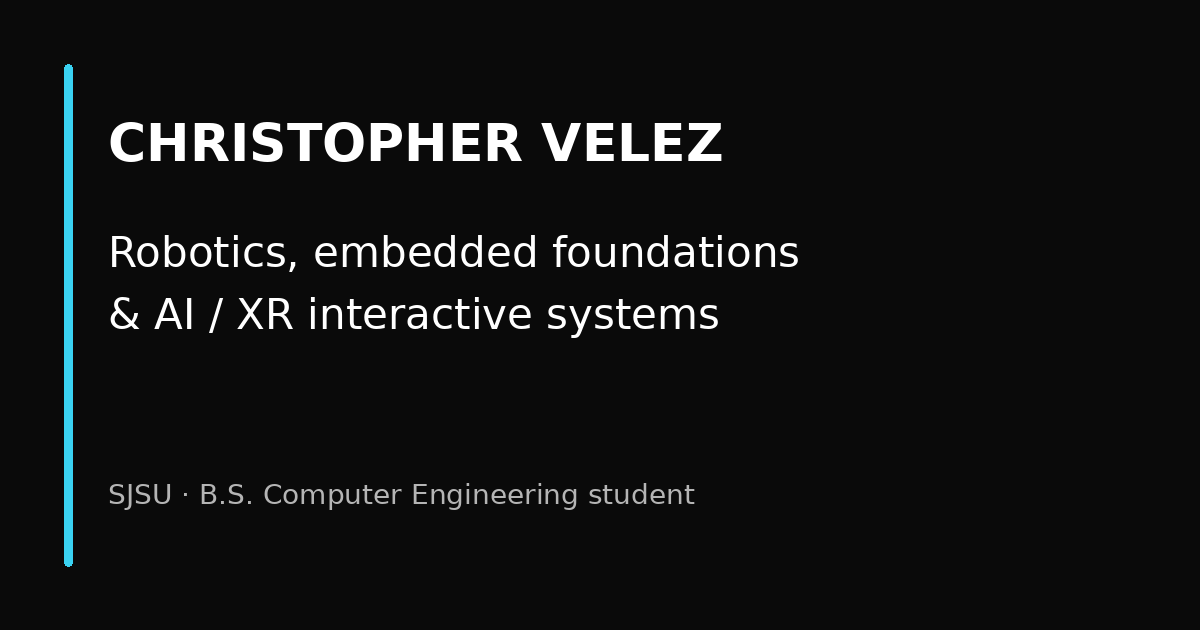
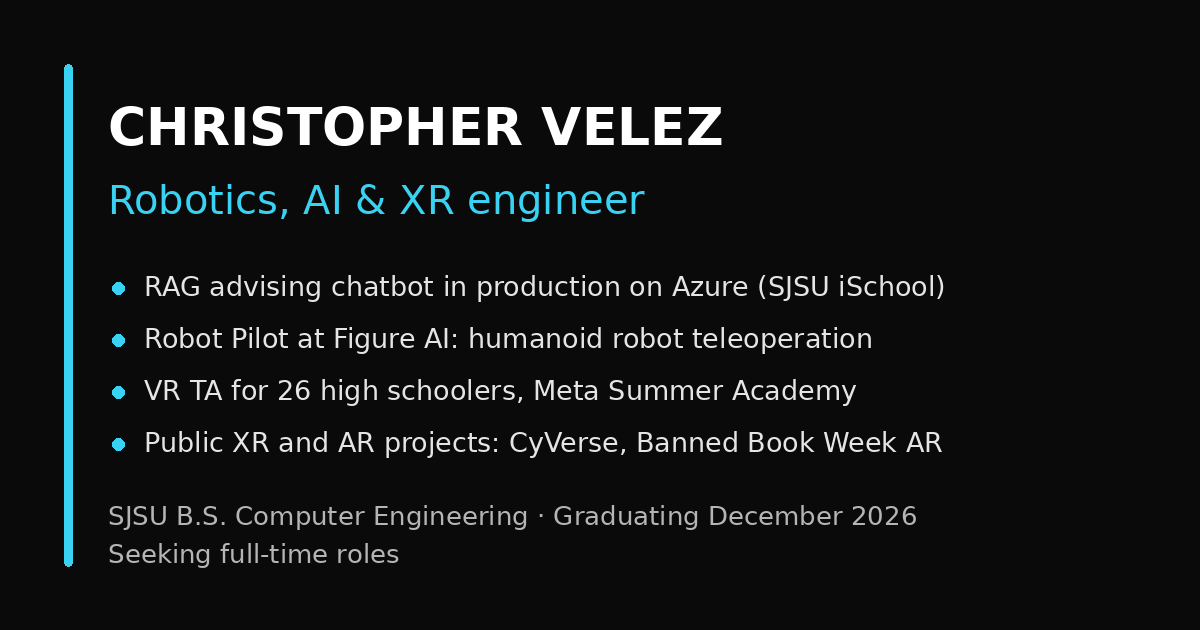
Social preview: new 1200x630 Open Graph/Twitter image and extra meta tags
og-default.png now lists the proof points and the December 2026 graduation and
full-time search. Adds og:image:type and og:locale, and a matching image alt.
Regenerated via scripts/generate-site-images.py.

diff --git a/src/utils/imageDimensions.ts b/src/utils/imageDimensions.ts
@@ -3,69 +3,5 @@ export const imageDimensions: Record<string, { width: number; height: number }> 
   "/images/og-default.png": {
     "width": 1200,
     "height": 630
-  },
-  "/images/placeholders/Chris_Velez_Headshot.jpeg": {
-    "width": 1984,
-    "height": 2976
-  },
-  "/images/placeholders/PhotogrametryWorkshop.jpg": {
-    "width": 1600,
-    "height": 898
-  },
-  "/images/placeholders/SharksWayIMG1.jpg": {
-    "width": 2496,
-    "height": 1140
-  },
-  "/images/placeholders/SharksWayIMG2.jpg": {
-    "width": 2494,
-    "height": 1135
-  },
-  "/images/placeholders/StemZoneSantaClara1.jpg": {
-    "width": 1600,
-    "height": 1200
-  },
-  "/images/placeholders/StemZoneSantaClara2.jpg": {
-    "width": 1600,
-    "height": 1200
-  },
-  "/images/placeholders/benthos-header.png": {
-    "width": 920,
-    "height": 430
-  },
-  "/images/placeholders/benthos.jpg": {
-    "width": 1600,
-    "height": 861
-  },
-  "/images/placeholders/project-immersion-2026.jpg": {
-    "width": 1024,
-    "height": 579
-  },
-  "/images/placeholders/project-ischool-chatbot.png": {
-    "width": 1896,
-    "height": 1024
-  },
-  "/images/projects/banned-book-week.jpg": {
-    "width": 1440,
-    "height": 810
-  },
-  "/images/projects/cyverse-glossary.jpg": {
-    "width": 1024,
-    "height": 576
-  },
-  "/images/projects/cyverse-hub.jpg": {
-    "width": 1024,
-    "height": 576
-  },
-  "/images/projects/cyverse-level1-briefing.jpg": {
-    "width": 1024,
-    "height": 576
-  },
-  "/images/projects/cyverse-level1-portal.jpg": {
-    "width": 1024,
-    "height": 576
-  },
-  "/images/projects/nsf-discovery-hall-readme.jpg": {
-    "width": 1440,
-    "height": 810
   }
 };

diff --git a/scripts/generate-site-images.py b/scripts/generate-site-images.py
@@ -18,10 +18,20 @@ def font(size, bold=False):
 og = Image.new('RGB', (1200, 630), '#0a0a0a')
 draw = ImageDraw.Draw(og)
 draw.rounded_rectangle((64, 64, 72, 566), radius=4, fill='#3ad2f2')
-draw.text((108, 112), 'CHRISTOPHER VELEZ', font=font(52, True), fill='#ffffff')
-draw.text((108, 228), 'Robotics, embedded foundations', font=font(42), fill='#ffffff')
-draw.text((108, 290), '& AI / XR interactive systems', font=font(42), fill='#ffffff')
-draw.text((108, 478), 'SJSU · B.S. Computer Engineering student', font=font(28), fill='#b5b5b5')
+draw.text((108, 96), 'CHRISTOPHER VELEZ', font=font(52, True), fill='#ffffff')
+draw.text((108, 176), 'Robotics, AI & XR engineer', font=font(40), fill='#3ad2f2')
+proof = [
+    'RAG advising chatbot in production on Azure (SJSU iSchool)',
+    'Robot Pilot at Figure AI: humanoid robot teleoperation',
+    'VR TA for 26 high schoolers, Meta Summer Academy',
+    'Public XR and AR projects: CyVerse, Banned Book Week AR',
+]
+for i, line in enumerate(proof):
+    y = 270 + i * 52
+    draw.ellipse((112, y + 12, 124, y + 24), fill='#3ad2f2')
+    draw.text((144, y), line, font=font(27), fill='#e5e5e5')
+draw.text((108, 500), 'SJSU B.S. Computer Engineering \u00b7 Graduating December 2026', font=font(26), fill='#b5b5b5')
+draw.text((108, 538), 'Seeking full-time roles', font=font(26), fill='#b5b5b5')
 og.save(PUBLIC / 'images/og-default.png', optimize=True)
 
 # CV letterforms rendered at high resolution for crisp small-size icons.
